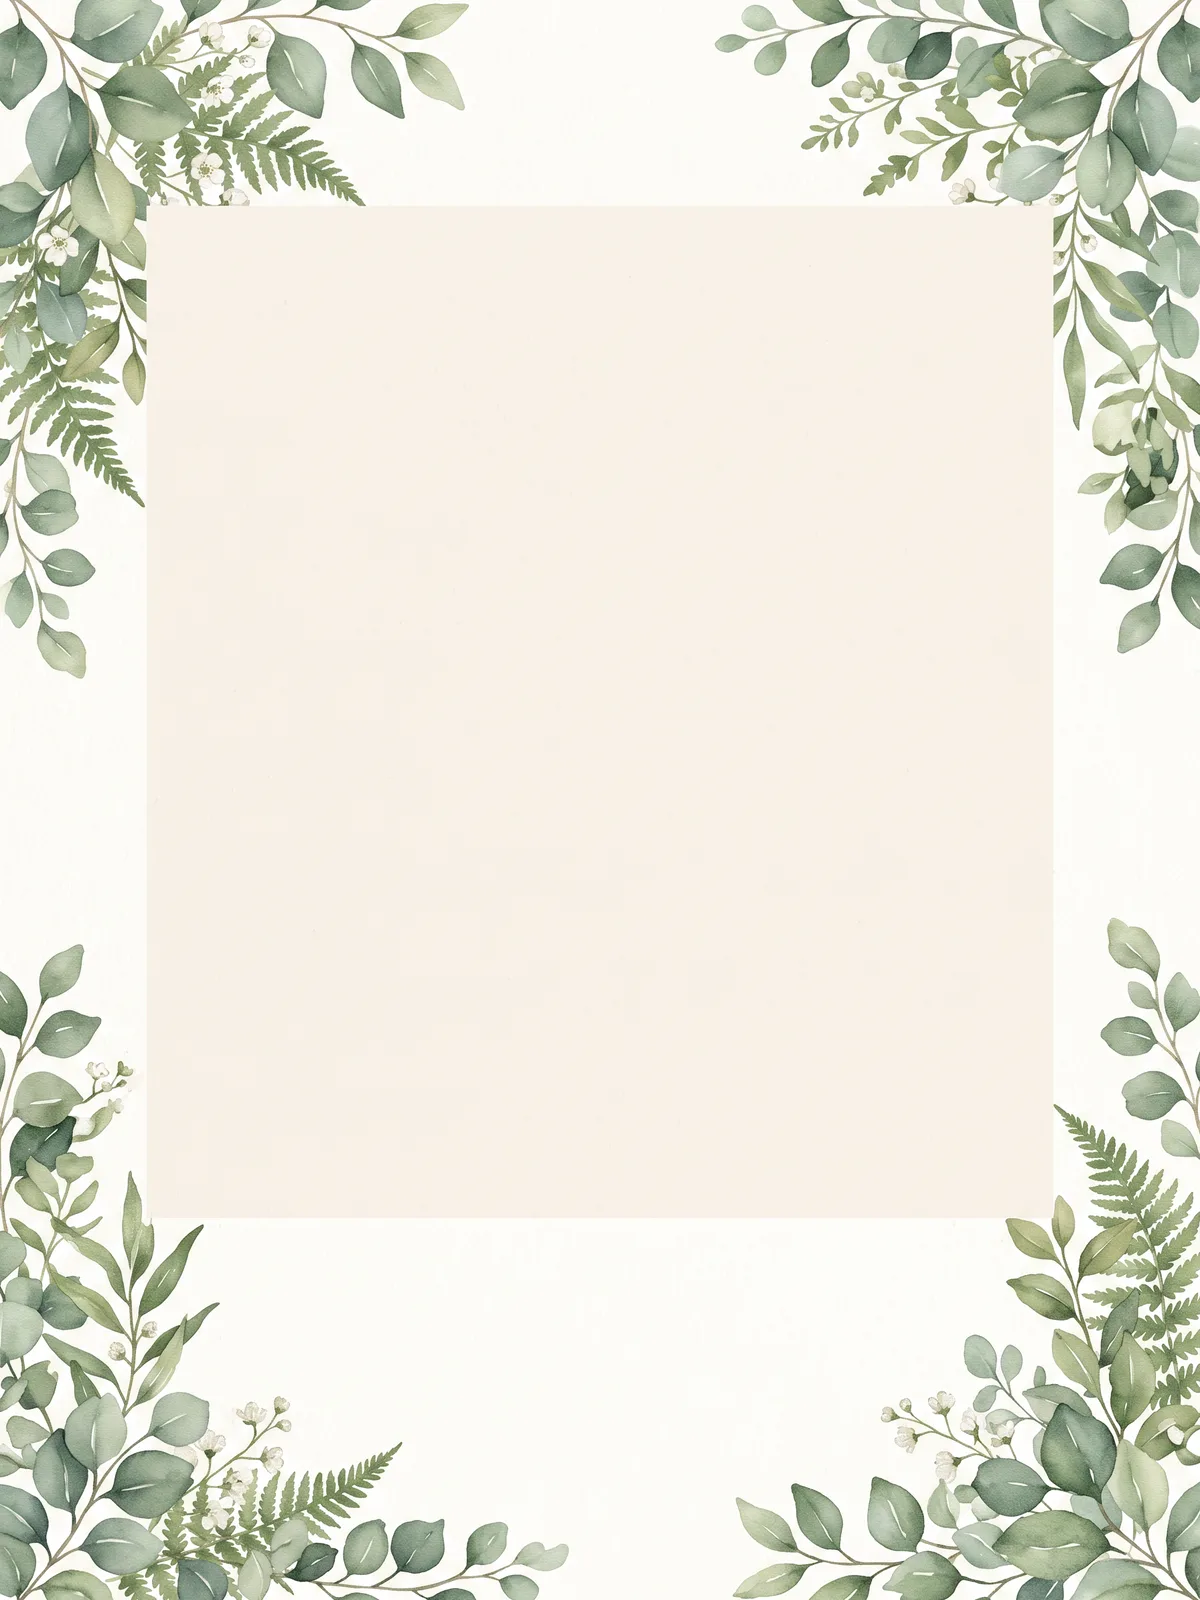
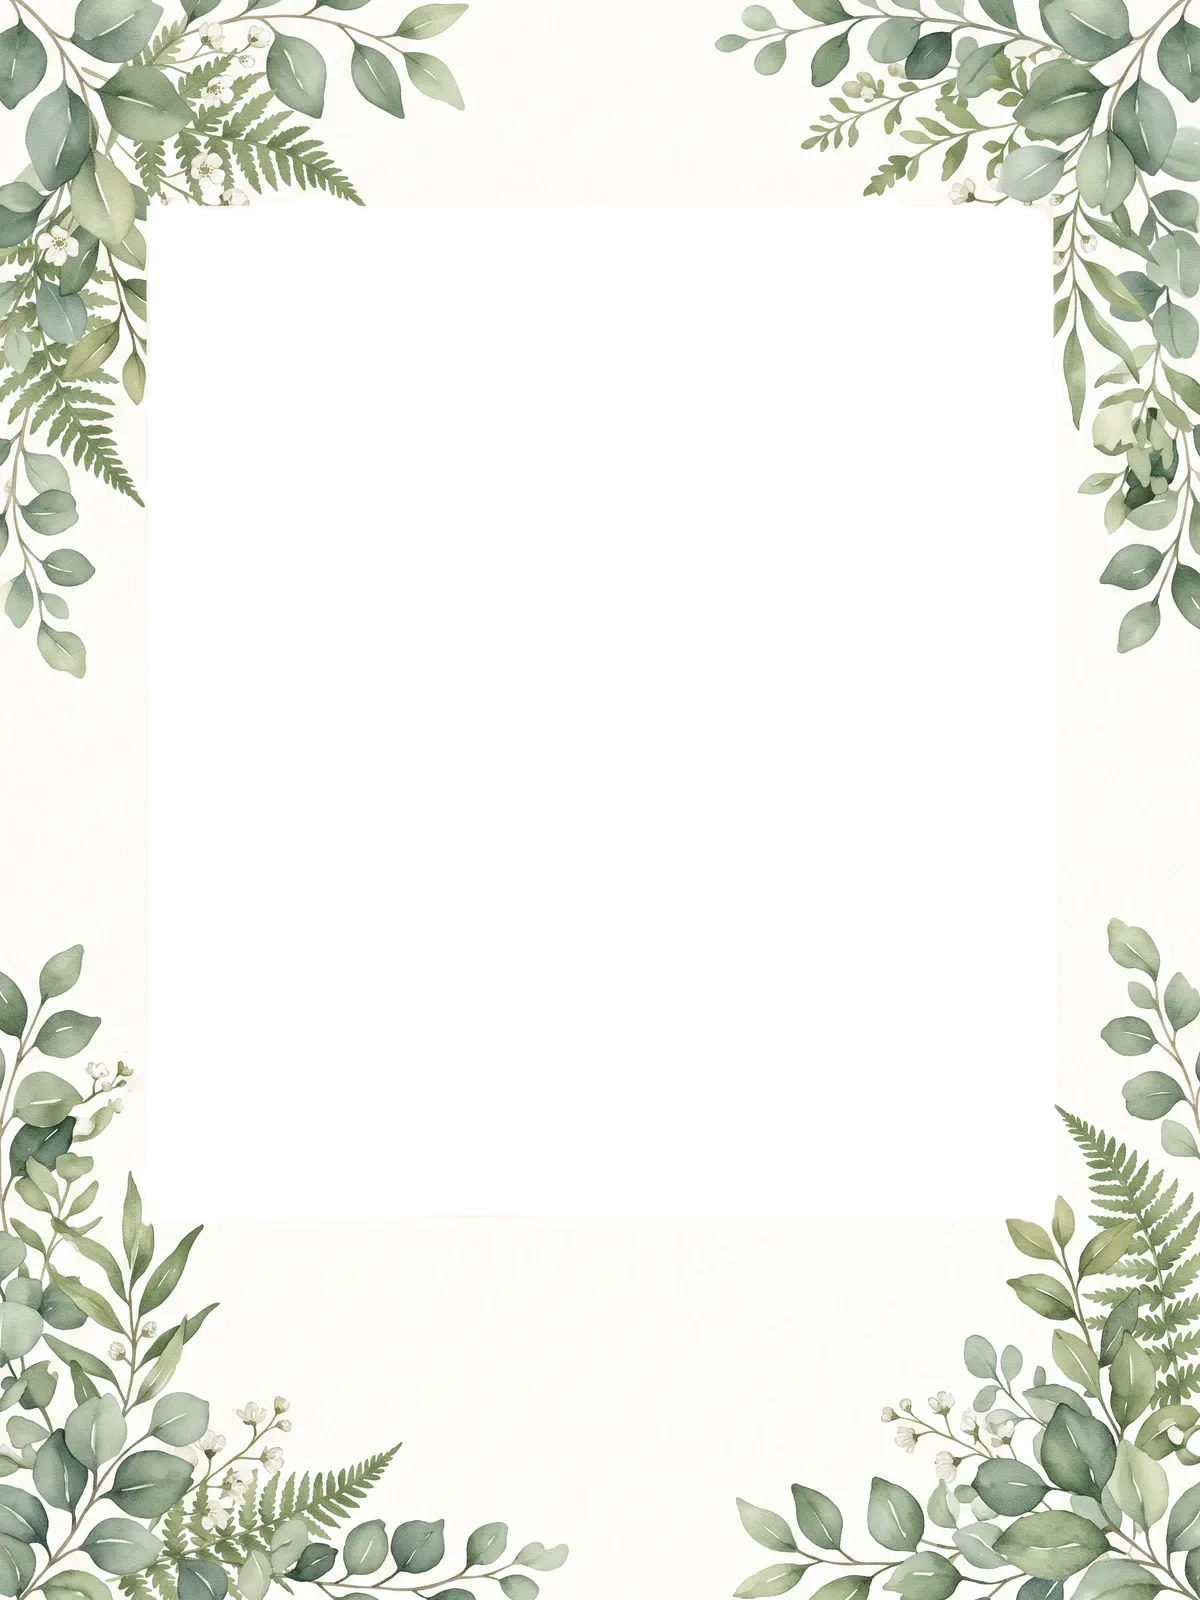
feat(albumkami): provide true PNG frames with transparent cutout window

diff --git a/src/app/[slug]/albumkami/frames.js b/src/app/[slug]/albumkami/frames.js
@@ -28,7 +28,7 @@ export const PHOTO_FRAMES = [
     name: 'Damask',
     desc: 'Bingkai seni ornamen ukiran damask baroque royal mewah',
     color: '#e5c05d',
-    art: '/images/frames/damask.webp',
+    art: '/images/frames/damask.png',
     bg: '#fbf9f4',
     cutout: { left: 12.12, right: 12.12, top: 9.09, height: 69.29 },
   },
@@ -37,7 +37,7 @@ export const PHOTO_FRAMES = [
     name: 'Bunga',
     desc: 'Bingkai seni bunga mekar nan anggun dan romantis',
     color: '#5b1f26',
-    art: '/images/frames/floral.webp',
+    art: '/images/frames/floral.png',
     bg: '#5b1f26',
     cutout: { left: 12.12, right: 12.12, top: 9.09, height: 69.29 },
   },
@@ -46,7 +46,7 @@ export const PHOTO_FRAMES = [
     name: 'Deco',
     desc: 'Bingkai seni garis geometris ganda Art-Deco klasik elegan',
     color: '#f7f2e7',
-    art: '/images/frames/deco.webp',
+    art: '/images/frames/deco.png',
     bg: '#f7f2e7',
     cutout: { left: 12.12, right: 12.12, top: 9.09, height: 69.29 },
   },
@@ -55,7 +55,7 @@ export const PHOTO_FRAMES = [
     name: 'Botani',
     desc: 'Bingkai seni dedaunan botani alami yang segar dan estetik',
     color: '#fbfaf6',
-    art: '/images/frames/botanical.webp',
+    art: '/images/frames/botanical.png',
     bg: '#fbfaf6',
     cutout: { left: 12.12, right: 12.12, top: 9.09, height: 69.29 },
   },
